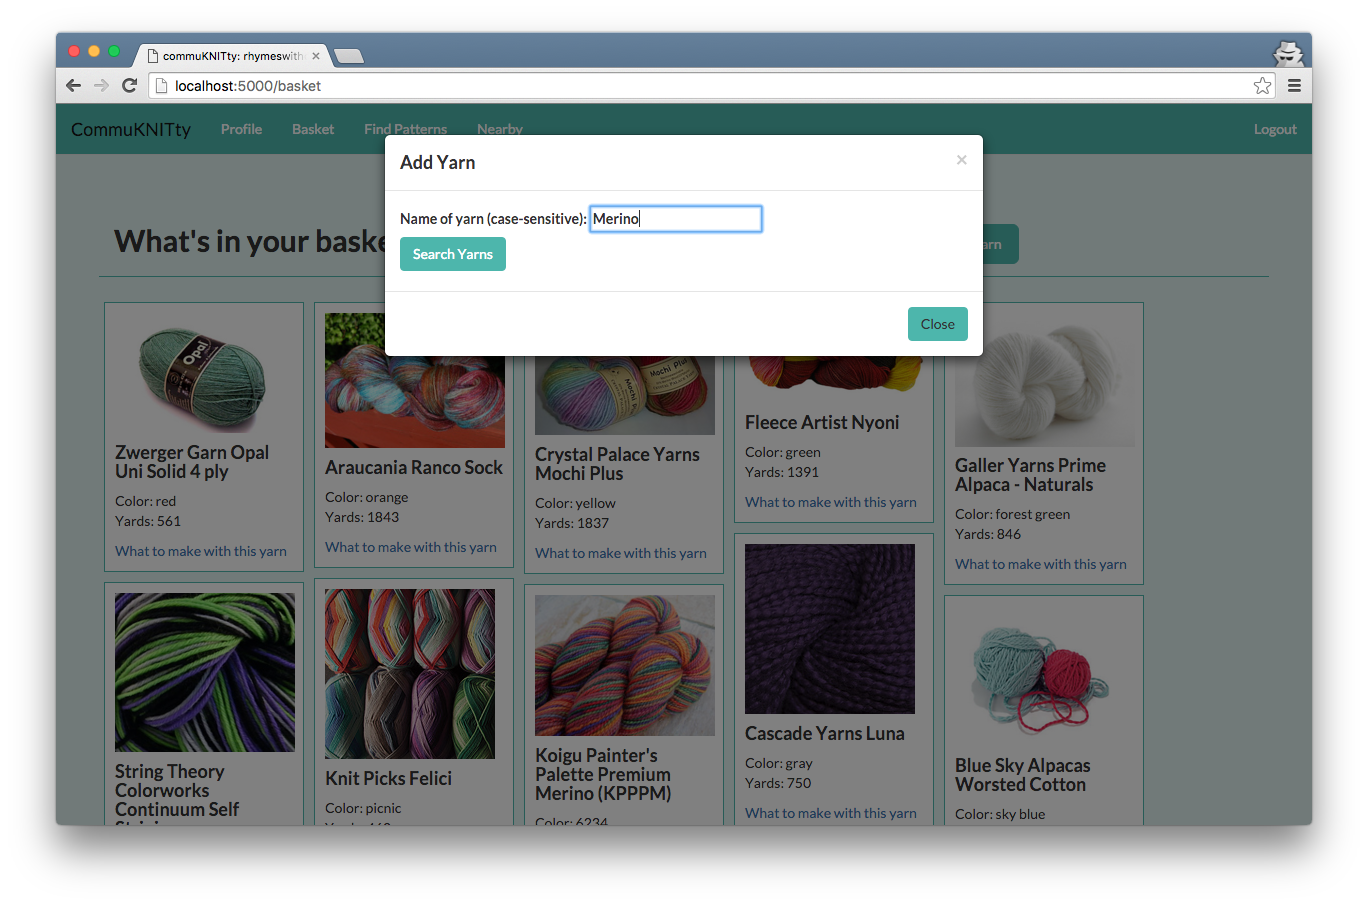
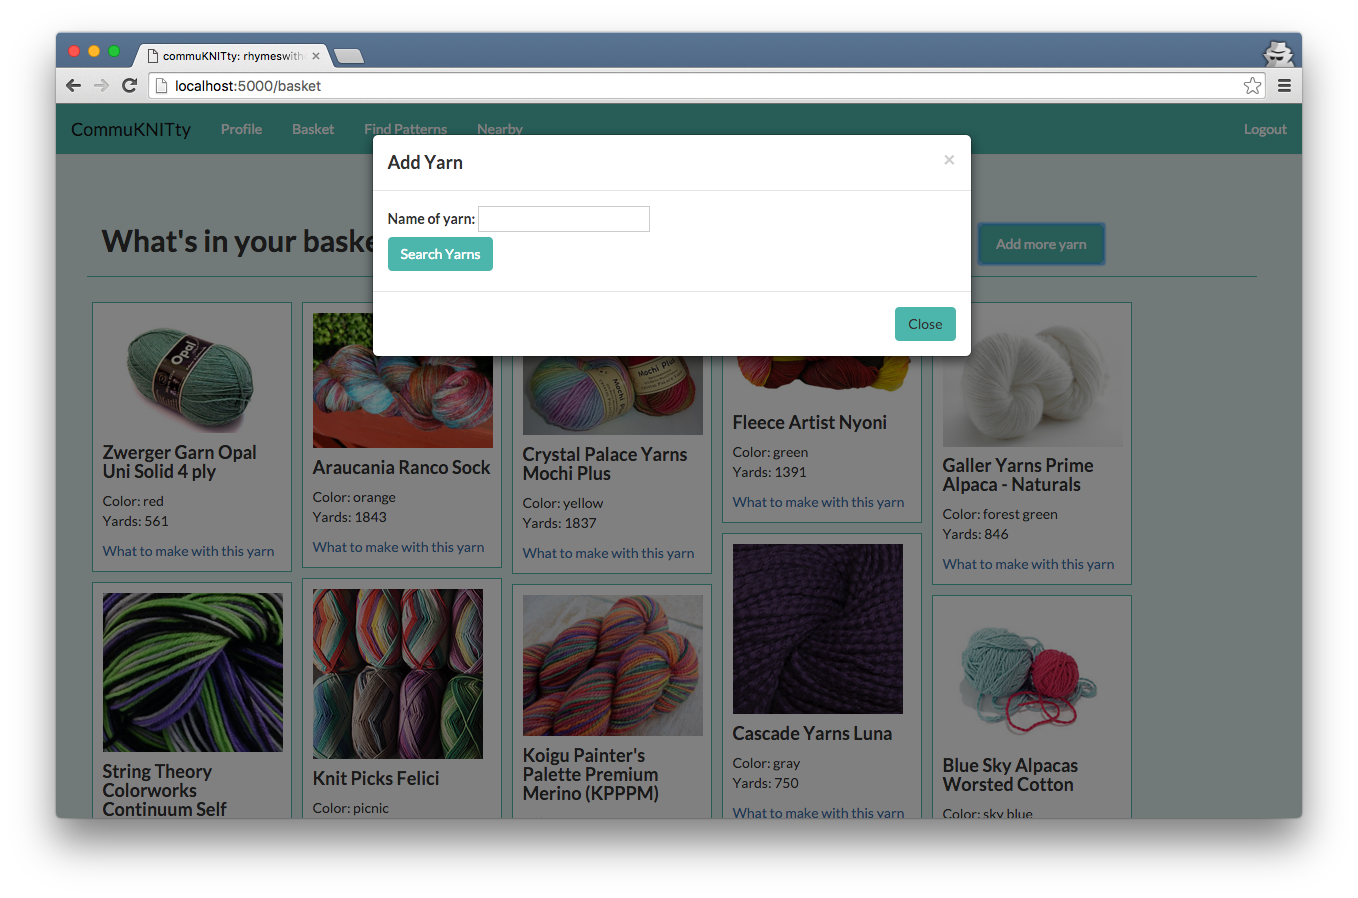
add yarn form optimization, new screen shot added

Changed region(s): [[0.0619, 0.0312, 0.9588, 0.9354]]

diff --git a/templates/basket.html b/templates/basket.html
@@ -16,7 +16,7 @@
                   </div>
                   <div class="modal-body" id="search-yarn">
                       <form id="search-yarn-form">
-                          <label>Name of yarn (case-sensitive): <input type="text" id="yarn-name-field" name="yarn_name"></label>
+                          <label>Name of yarn: <input type="text" id="yarn-name-field" name="yarn_name"></label>
                           <br><label><input type="submit" class="btn btn-info" id="search-yarn-submit" value="Search Yarns"></label>
                       </form>
                   </div>
